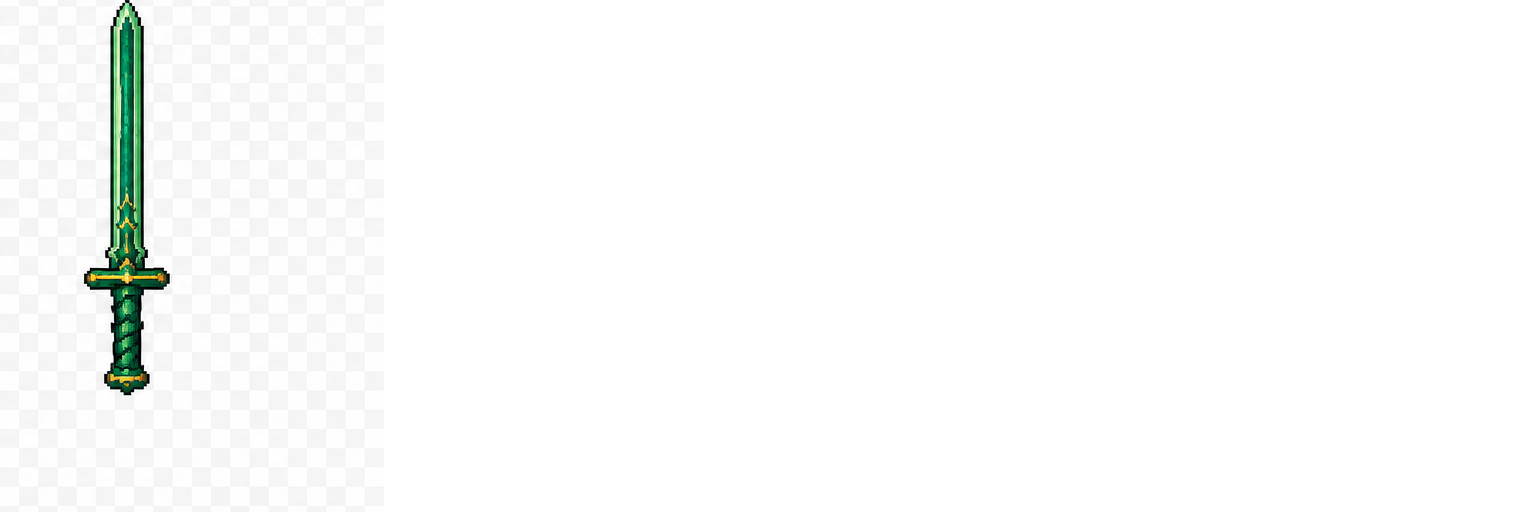
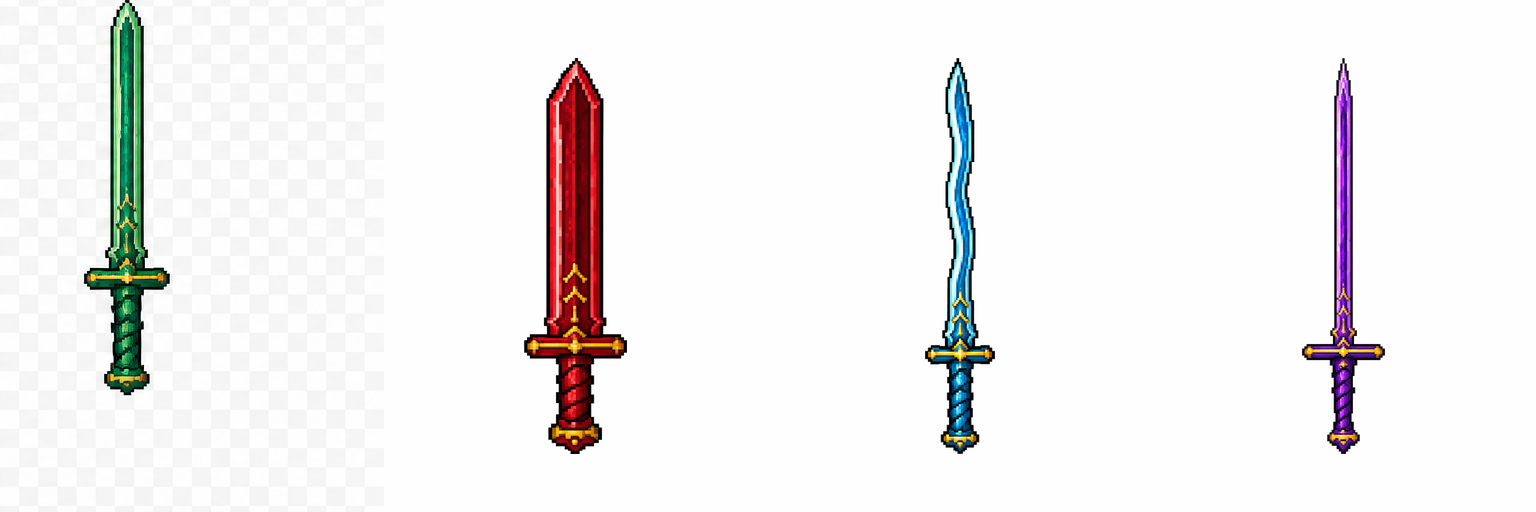
feat(v2.0): give the four flying swords their own silhouettes
The weapon atlas held one blade recoloured four times, which the author called out: the four cells were the same sword in jade, crimson, azure and violet. Three of them are now rebuilt from generated pixel-art swords so each 御剑法门 reads as its own shape instead of a palette swap. Cell 0 keeps the original straight double-edged jian; 重锋 becomes a wide crimson broadsword, 流刃 a slender azure flowing sword, 贯脉 a narrow violet thrusting sword. Each was generated image-to-image from a 3x upscale of the original blade so the pixel weight, outline and palette stay consistent, then keyed, trimmed and normalised to the original 396px sword height before being written into the atlas.

The runtime needs no change: art.js already keys the near-white backdrop and trims to alpha, so the new outlines are picked up automatically. The four cells now differ in opaque-pixel count and bounding box (14072 86x396 / 21105 103x396 / 10728 70x396 / 8626 83x396) where before they shared one silhouette.

The appearance picker is account level and only swaps what the renderer draws: data.js carries weaponSkin, save-store.js falls back to null (follow the method) through normalizeWeaponSkin, and the lodge lists 跟随法门 plus the four looks. Its preview canvases go from 64 to 88 pixels because the shapes were not legible at the old size. The look descriptions move from colour to shape wording.
[…]

Changed region(s): [[0.3438, 0.125, 0.4062, 0.875], [0.5938, 0.125, 0.6562, 0.875], [0.8438, 0.1562, 0.9062, 0.875]]

diff --git a/game/gameplay/CostumePanel.jsx b/game/gameplay/CostumePanel.jsx
@@ -3,13 +3,14 @@
  */
 import React,{useEffect,useRef,useState} from 'react';
 import {SKINS,skinUnlocked} from './skins';
+import {WEAPON_SKINS} from './weapons';
 import {skinPose,sprite} from './art';
 import {Button} from '../components/ui/button';
 
 const Chip=({children})=><span className="chip">{children}</span>;
 
-// Costumes are account level: the list is readable at any time, and equipping one only swaps the
-// pose set the renderer draws. Nothing here touches the running battle or its snapshot.
+// Costumes and flying-sword looks are account level: the list is readable at any time, and choosing
+// one only swaps what the renderer draws. Nothing here touches the running battle or its snapshot.
 function PosePreview({image,height=76,locked=false}){
  const ref=useRef(null);
  useEffect(()=>{const c=ref.current;if(!c)return;const ctx=c.getContext('2d');ctx.clearRect(0,0,c.width,c.height);ctx.imageSmoothingEnabled=false;if(image)sprite(ctx,image,c.width/2,c.height-4,height);},[image,height]);
@@ -24,7 +25,7 @@ export function unlockText(skin){
  return '条件未标明';
 }
 
-export function CostumePanel({save,art,onChange}){
+export function CostumePanel({save,art,onChange,onWeaponChange}){
  const [poses,setPoses]=useState({});
  useEffect(()=>{
   if(!art)return;let alive=true;
@@ -32,8 +33,10 @@ export function CostumePanel({save,art,onChange}){
   return()=>{alive=false;};
  },[art]);
  const equipped=save.skin;
- return <section className="costume-panel" aria-label="时装">
-  <p className="muted">时装只改变外观，不影响战斗数值、结算与成绩。解锁后可在洞府随时更换，不进入本局快照。</p>
+ const weaponChoice=save.weaponSkin??null; // null = follow the equipped method
+ const weaponArt=art?.weapons||[];
+ return <section className="costume-panel" aria-label="外观">
+  <p className="muted">时装与飞剑外观只改变外观，不影响战斗数值、结算与成绩。解锁后可在洞府随时更换，不进入本局快照。</p>
   <div className="codex-grid">{SKINS.map(skin=>{
    const granted=skinUnlocked(save,skin)||(save.skins||[]).includes(skin.id),current=equipped===skin.id;
    return <article className={'codex-card costume-card'+(current?' selected':'')} key={skin.id}>
@@ -45,5 +48,26 @@ export function CostumePanel({save,art,onChange}){
     <Button className="fr-btn" disabled={!granted||current} aria-pressed={current} onClick={()=>{if(granted&&!current)onChange(skin.id);}}>{current?'当前装束':'装备'}</Button>
    </article>;
   })}</div>
+  <h3 className="weapon-skin-title">飞剑外观</h3>
+  <p className="muted">默认按当前御剑法门自动切换剑身；也可在此固定一把飞剑外观，只改表现，不改法门数值。</p>
+  <div className="codex-grid">
+   <article className={'codex-card costume-card'+(weaponChoice===null?' selected':'')}>
+    <PosePreview image={weaponArt[0]} height={88}/>
+    <Chip>{weaponChoice===null?'已装备':''}</Chip>
+    <h3>跟随法门</h3>
+    <p>剑身随御剑法门变化。</p>
+    <Button className="fr-btn" disabled={weaponChoice===null} onClick={()=>onWeaponChange(null)}>{weaponChoice===null?'当前':'选择'}</Button>
+   </article>
+   {WEAPON_SKINS.map(w=>{
+    const current=weaponChoice===w.id;
+    return <article className={'codex-card costume-card'+(current?' selected':'')} key={w.id}>
+     <PosePreview image={weaponArt[w.cell]} height={88}/>
+     <Chip>{current?'已装备':'可装备'}</Chip>
+     <h3>{w.name}</h3>
+     <p>{w.desc}</p>
+     <Button className="fr-btn" disabled={current} onClick={()=>onWeaponChange(w.id)}>{current?'当前':'选择'}</Button>
+    </article>;
+   })}
+  </div>
  </section>;
 }

diff --git a/docs/assets.md b/docs/assets.md
@@ -13,7 +13,7 @@
 | 图片 | 用途 | 生成／参考记录 |
 |---|---|---|
 | hanli-sword-atlas.png | 韩立战斗小人（七帧姿态） | AI 生成，参考作者提供的人物与飞剑图 |
-| weapon-atlas.png | 御剑法门外观，飞剑独立图集 | 由 hanli-sword-atlas.png 原飞剑格逐像素裁切，四格布局，其余三格留空待新增法门 |
+| weapon-atlas.png | 御剑法门外观，飞剑独立图集 | 四格布局，格 0 为 hanli-sword-atlas.png 原飞剑格逐像素裁切（细直双刃剑）。格 1／2／3 按法门语义用原剑作图生图参考重生：重锋阔刃重剑、流刃曲刃软剑、贯脉细长刺剑；处理后抠底、统一剑高 396 像素写入。三条 AI 生成记录见 `game/qa/costume-gen/` |
 | hero-frost / night / crimson / snow-atlas.png | 四套时装外观图集 | 由 hanli-sword-atlas.png 的服装织物色带换色派生；皮肤、头发、描边、金饰与背景原样保留 |
 | enemy-atlas.png | 敌方图集 | AI 生成的战术敌人原型 |
 | battlefield-atlas.png | 六种环境底图 | AI 生成 |
